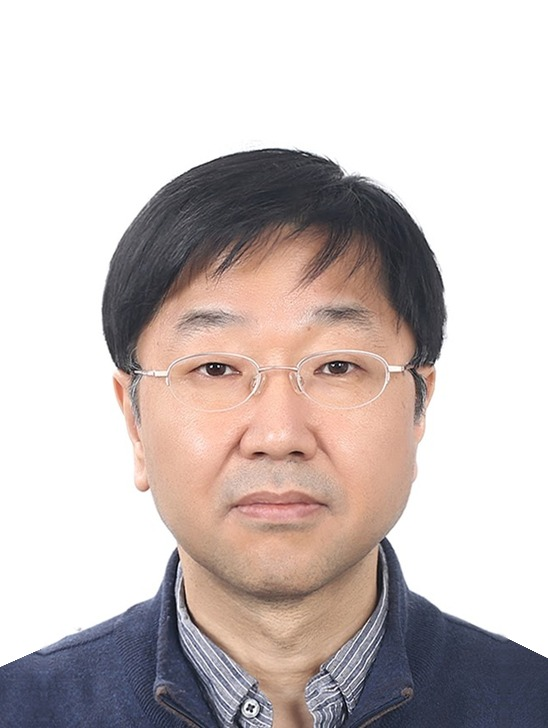
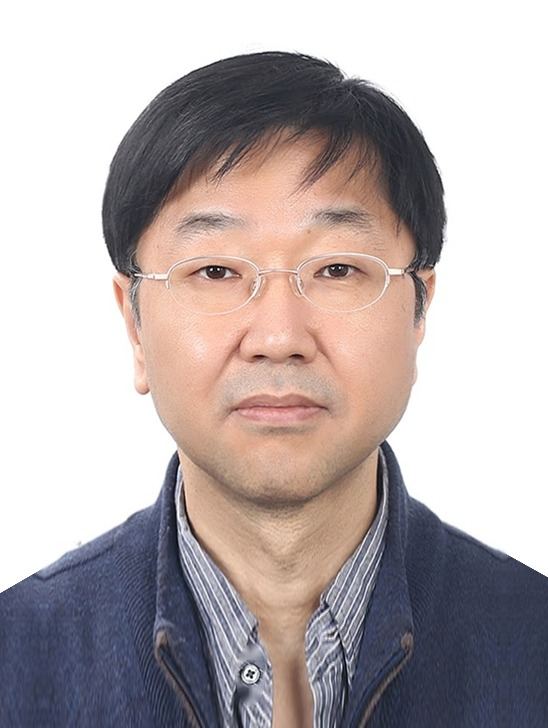
People: professor portrait — face raised to match students, torso extended downward
Claude-Session: https://claude.ai/code/session_0193FsCwCBU5TNaPgPqdxirM

diff --git a/people.html b/people.html
@@ -44,7 +44,7 @@
       <h2>Current Members</h2>
       <div class="members">
         <div class="member member-lead">
-          <div class="photo"><img src="assets/people/hyungson-ki.jpg?v=5" alt="Prof. Hyungson Ki"></div>
+          <div class="photo"><img src="assets/people/hyungson-ki.jpg?v=6" alt="Prof. Hyungson Ki"></div>
           <div class="member-info">
             <h3>Hyungson Ki <span class="name-ko">기형선</span></h3>
             <p>Professor</p>
